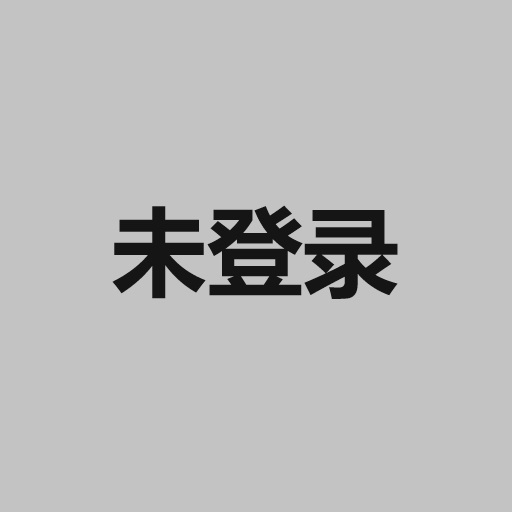
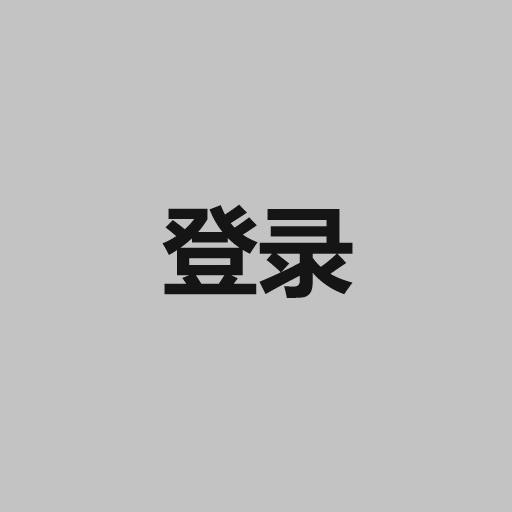
202405170331

Changed region(s): [[0.2188, 0.4062, 0.7812, 0.5938]]

diff --git a/Vue/ProjectERP/src/components/Backstage/Navigator.vue b/Vue/ProjectERP/src/components/Backstage/Navigator.vue
@@ -1,29 +1,127 @@
 <script setup>
-    
+import axios from "axios";
+import { ref,inject, shallowRef } from "vue";
+import { useRouter } from "vue-router";
+const router = useRouter();
+    //inject
+    const {
+        right_arrow,
+        search,
+        up_arrow,
+        down_arrow,
+    } = inject('resource');
+    const store = inject('store');
+    //获取用户信息
+    const user = ref({
+        userid:'',
+        user_name:'',
+        isroot:false
+    });
+    function _getuserinfo() {
+        axios({
+            url:'/getUserMain',
+            method:'get',
+            params:{
+                userid:localStorage.getItem('user')
+            }
+        }).then(res => {
+            user.value.userid = res.data.user.userid;
+            user.value.user_name = res.data.user.user_name;
+            user.value.isroot = res.data.user.isroot;
+            store._user_avator(res.data.user.avator);
+            if(!res.data.user.isroot) {
+                router.push({
+                    name:'Home'
+                })
+            }
+        });
+    }
+    if(store.state.user_islogin){
+        _getuserinfo();
+    }
+    //路径
+    const paths = ref([{
+        path:'BackStage',
+        name:'主站'
+    }]);
+    function _gotopath(index) {
+        var path = paths.value[0].path;
+        if(paths.value.length > 1) {
+            for(;value.length>=index;) {
+                path = paths.value.pop().path;
+            }
+        }
+        console.log('path',path);
+        console.log('paths',paths.value);
+        router.push({
+            name:path
+        });
+    }
+    //搜索
+    const searchtext = ref('');
+    function _search() {
+        axios({
+            url:'/getBackstageSearch',
+            method:'get',
+            params:{
+                searchtext:searchtext.value
+            }
+        }).then(res=>{
+            router.push({
+                name:res.data.jumpname
+            });
+        })
+    }
+    //额外功能开关
+    const optionpanelopen = ref(false);
+    const optionpanelarrow = shallowRef(down_arrow);
+    function _optionpanelshow(show) {
+        if(show){
+            optionpanelopen.value = true;
+            optionpanelarrow.value = up_arrow;
+        }else{
+            optionpanelopen.value = false;
+            optionpanelarrow.value = down_arrow;
+        }
+    }
+    //进入修改密码界面
+    //退出登录
+    function _userlogout(){
+        _optionpanelshow(false);
+        localStorage.setItem('user','null');
+        store.user_islogin();
+        store._user_avator('./src/Resource/Imgs/DefaultAvatar512.jpg');
+        router.push({
+            name:'Home'
+        });
+    }
 </script>
 
 <template>
     <div class="navigatorbody">
         <div class="navigate">
-            <div class="button navnode">
-                <Icons class="icon"></Icons>
-                主站
+            <div class="button navnode" v-for="item,index in paths" @click="_gotopath(index)">
+                <Icons class="icon"><right_arrow /></Icons>
+                {{item.name}}
             </div>
         </div>
-        <div class="searchbox">
-            <input class="input" type="text">
-            <Icons class="button icon"></Icons>
-        </div>
+        <form class="searchbox" @submit.prevent="_search()">
+            <input class="input" type="text" v-model="searchtext">
+            <Icons class="button icon" @click="_search()"><search /></Icons>
+            <input type="submit" style="width: 0; height: 0;border: none;">
+        </form>
         <div class="right">
-            <div style="position: relative;"><div class="userpanel">
+            <div style="position: relative;"><div class="userpanel" v-show="optionpanelopen">
                 <div class="button panelitem">修改密码</div>
                 <div class="cutline"></div>
-                <div class="button panelitem">退出登录</div>
+                <div class="button panelitem" @click="_userlogout()">退出登录</div>
             </div></div>
-            <div class="button userinfo">
-                <img class="img" src="" alt="">
-                <div class="username">用户名</div>
-                <Icons class="icon"></Icons>
+            <div class="button userinfo"
+                @click="optionpanelopen?_optionpanelshow(false):_optionpanelshow(true)"
+            >
+                <img class="img" :src="store.state.user_avator" alt="">
+                <div class="username">{{user.user_name}}</div>
+                <Icons class="icon"><optionpanelarrow /></Icons>
             </div>
         </div>
     </div>

diff --git a/Vue/ProjectERP/src/components/Backstage/BackstageMain.vue b/Vue/ProjectERP/src/components/Backstage/BackstageMain.vue
@@ -1,11 +1,30 @@
 <script setup>
-    import Navigator from './Navigator.vue';
+    import { inject } from 'vue';
+import Navigator from './Navigator.vue';
+import { useRouter } from 'vue-router';
+    const router = useRouter();
+    //inject
+    const store = inject('store');
+    const {
+        nav_logo
+    } = inject('resource');
+    //自动登录
+    function _autologin() {
+        if(localStorage.getItem('user')&&localStorage.getItem('user')!='null') {
+            store.user_islogin(true);
+        }else{
+            router.push({
+                    name:'Home'
+            });
+        }
+    }
+    _autologin();
 </script>
 
 <template>
     <div class="top">
         <div class="logo">
-            <img class="img" src="" alt="">
+            <img class="img" :src="nav_logo" alt="">
         </div>
         <Navigator class="navigator"></Navigator>
     </div>

diff --git a/Vue/ProjectERP/src/components/LoginLogup.vue b/Vue/ProjectERP/src/components/LoginLogup.vue
@@ -80,8 +80,7 @@ import { useRouter } from 'vue-router';
 
 <template>
     <div class="loginbody">
-        <div class="left"></div>
-        <div class="over">
+        <form class="over" @submit.prevent="_login()">
             <div class="title">{{title}}</div>
             <input class="input username"
                 type="text"
@@ -107,8 +106,8 @@ import { useRouter } from 'vue-router';
             >
             <div class="button loginlogon" @click="_login()">{{loginlogon}}</div>
             <div class="button change" @click="_changestate()">{{change}}</div>
-        </div>
-        <div class="right"></div>
+            <input type="submit" style="width: 0; height: 0;border: none;">
+        </form>
     </div>
 </template>
     

diff --git a/Vue/ProjectERP/src/Router/index.js b/Vue/ProjectERP/src/Router/index.js
@@ -47,9 +47,13 @@ const routes = [
             {path:"/:path(.*)",component:NotFound}
         ]
     },
-    {path:"/BackStage",name:'BackStage',component:Backstage},
+    {
+        path:"/BackStage",
+        name:'BackStage',
+        component:Backstage,
+        props:true
+    },
     {path:"/LoginLogup",name:'LoginLogup',component:LoginLogup},
-    {path:"/:path(.*)",component:NotFound}
 ];
 
 const router = createRouter({

diff --git a/Vue/ProjectERP/src/css/Login.css b/Vue/ProjectERP/src/css/Login.css
@@ -2,7 +2,7 @@
 .loginbody {
     width: 100%;
     height: 100%;
-    background-color: var(--colorlogin);
+    background: url(../Resource/Imgs/bg1024.jpg) no-repeat center/cover;
     display: flex;
     align-items: center;
     justify-content: center;

diff --git a/Vue/ProjectERP/src/components/Navigator.vue b/Vue/ProjectERP/src/components/Navigator.vue
@@ -74,7 +74,7 @@
         user_name:'',
         vip_level:'',
         vip_count:'',
-        isroot:''
+        isroot:false
     });
     function _setlogstate() {
         axios({
